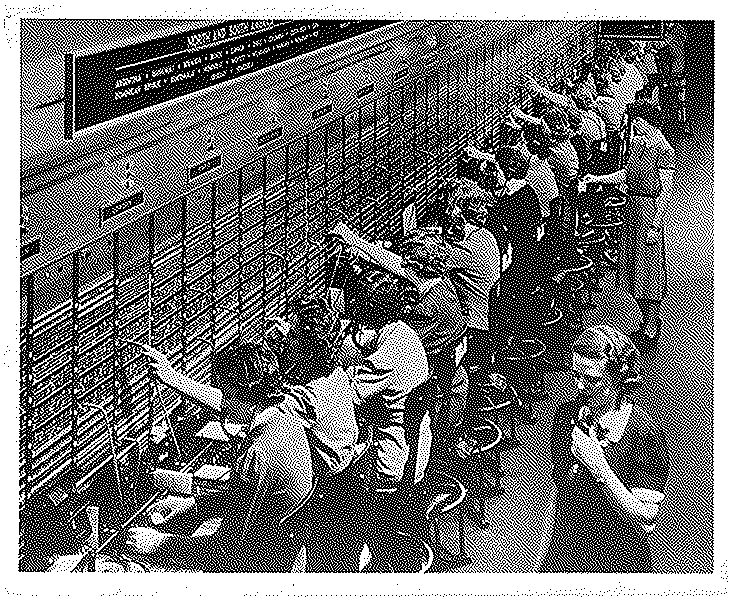
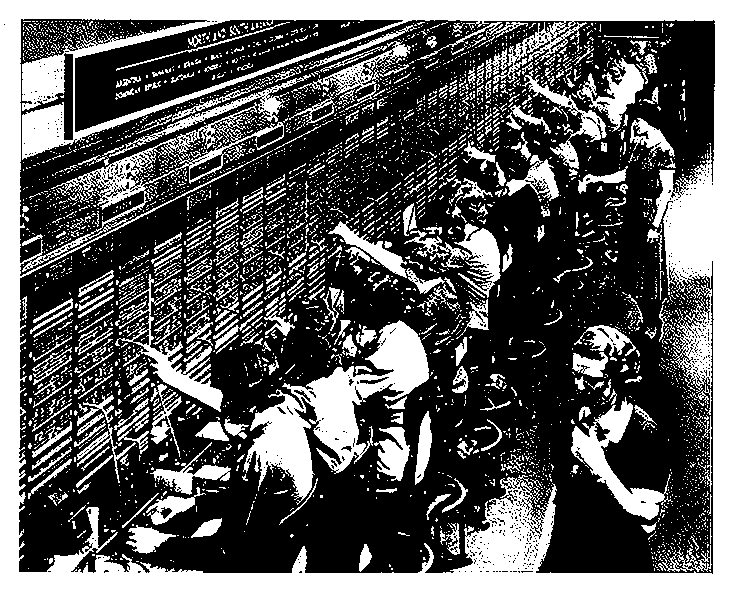
function creation

Changed region(s): [[0.0301, 0.0301, 0.9932, 0.9616]]

diff --git a/Dithering.py b/Dithering.py
@@ -1,25 +1,28 @@
-# -*- coding: utf-8 -*-
+import sys
+import PIL.Image
 
-import sys, PIL.Image
-saved = "dithere_image.png"
-img = PIL.Image.open("image.jpg").convert('L')
 
-threshold = 128*[0] + 128*[255]
+def dithering(imgIn, imgOut, trame=3, show=False):
+    img = PIL.Image.open(imgIn).convert('L')
+    threshold = 128 * [0] + 128 * [255]
 
-for y in range(img.size[1]):
-    for x in range(img.size[0]):
+    for y in range(img.size[1]):
+        for x in range(img.size[0]):
 
-        old = img.getpixel((x, y))
-        new = threshold[old]
-        err = (old - new) >> 3 # divide by 8
-            
-        img.putpixel((x, y), new)
-        
-        for nxy in [(x+1, y), (x+2, y), (x-1, y+1), (x, y+1), (x+1, y+1), (x, y+2)]:
-            try:
-                img.putpixel(nxy, img.getpixel(nxy) + err)
-            except IndexError:
-                pass
+            old = img.getpixel((x, y))
+            new = threshold[old]
+            err = (old - new) >> trame  # divide by 2^trame
 
-img.show()
-img.save(saved)
+            img.putpixel((x, y), new)
+
+            for nxy in [(x + 1, y), (x + 2, y), (x - 1, y + 1), (x, y + 1), (x + 1, y + 1), (x, y + 2)]:
+                try:
+                    img.putpixel(nxy, img.getpixel(nxy) + err)
+                except IndexError:
+                    pass
+    if show:
+        img.show()
+    img.save(imgOut)
+
+
+dithering("image.jpg", "dithere_image.png", trame=6, show=True)
